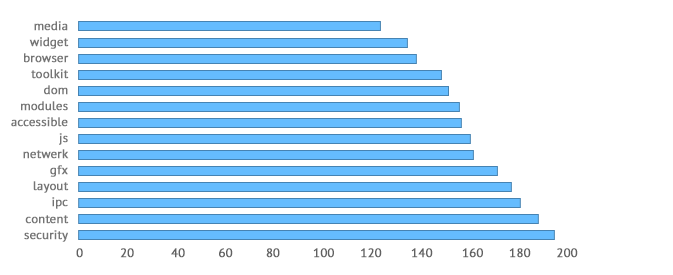
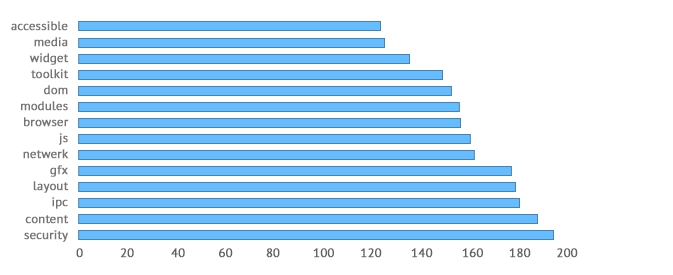
Updated charts, had wrong references in spreadsheet (reminder, don't work while putting kid to bed again)

diff --git a/prose/index.htm b/prose/index.htm
@@ -344,7 +344,7 @@ The exploratory tool's source-code as well as the data described herein are avai
 
 <p class="subtitle">5 Take-away</p>
 <p>It is impressive that an open-source project developed and maintained by a distributed team of paid staff and volunteers has been able to produce a product as impactful as the Firefox browser.  One sees larger, more expensive, software projects become drastically less maintainable in only a few years by virtue of their development processes becoming more chaotic and coding best practices being abandoned in favor of premature pragmatism.  With Firefox, We see the decision to move to a tighter, more predictable, development process possibly helping to improve quality.</p>
-<p>Firefox's core size may be somewhat elevated indicating that highly interconnected files make up a sizable portion of the codebase.  Though the measure shows no signs of following an upward trend, that may quickly change should, say, any organizational dynamics change.  The changes in version 3.0 of the product that led to Firefox's core size increasing by over 200% may be worth looking into.  Having said that, the analysis reveals no imminently alarming red flags when it comes to maintainability.  A number of modules, such as <i>browser</i> and <i>security</i>, frequently appear among the most complex modules.  Further investigation may be helpful in identifying why that is the case.</p>
+<p>Firefox's core size may be somewhat elevated indicating that highly interconnected files make up a sizable portion of the codebase.  Though the measure shows no signs of following an upward trend, that may quickly change should, say, any organizational dynamics change.  The changes in version 3.0 of the product that led to Firefox's core size increasing by over 200% may be worth looking into.  Having said that, the analysis reveals no imminently alarming red flags when it comes to maintainability.  A number of modules, such as <i>accessible</i> and <i>security</i>, frequently appear among the most complex modules.  Further investigation may be helpful in identifying why that is the case.</p>
 <p>A caveat worth mentioning in closing is that, as with any set of software metrics, the measures described herein only reveal part of the picture.  The chosen architectural measures make the assumption that directory structure reflects the logical hierarchy of modules within Firefox.  I have not looked into the extent to which this is the case.</p>
 
 <p class="subtitle">6 Next steps</p>
